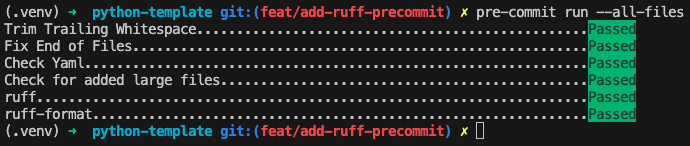
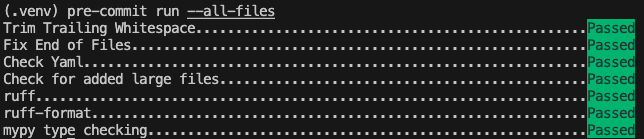
Update README with new tools

diff --git a/README.md b/README.md
@@ -13,6 +13,8 @@ You only need to install [Docker](https://docs.docker.com/engine/install/) and [
 To start the containers, just run `docker-compose up` (or `docker-compose up -d` if you want to run the containers in background); or `docker-compose create` and `docker-compose start` if you don't want to see the logs.
 Once the containers are running, you can go to `http://localhost:8000/docs` to see the automatic interactive API documentation.
 
+For making code changes, installing `pre-commit` is necessary (see section [Code tools: pre-commit](#pre-commit))
+
 ## Migrations
 We use Alembic as database migration tool. To run its commands you can open an interactive shell inside the backend container (you can use `./exec.sh bash` shortcut), or use the following shortcuts under the `/scripts` directory:
 - `./exec.sh migrate` -> runs all the migrations
@@ -39,14 +41,10 @@ Ensure everything was set up correctly by running the hooks:
 
 You can add new `pre-commit` hooks by editing `.pre-commit-config.yaml`. Whenever new hooks are added, you must run `pre-commit install` to ensure new hooks are run on commit.
 
+### Linting, formatting and type checking
 
-Linters, formatters, etc.
-
-- **Pycln**: Formatter for finding and removing unused import statements.
-- **isort**: Tool to sort imports alphabetically and automatically separate into sections by type.
-- **flake8**: Linting tool
+- **ruff**: Linter and formatter
 - **mypy**: Static type checker
-- **black**: PEP 8 compliant opinionated formatter
 
 There is a shortcut under the `/scripts` directory that runs all this tools for you (`./exec.sh format`).
 
